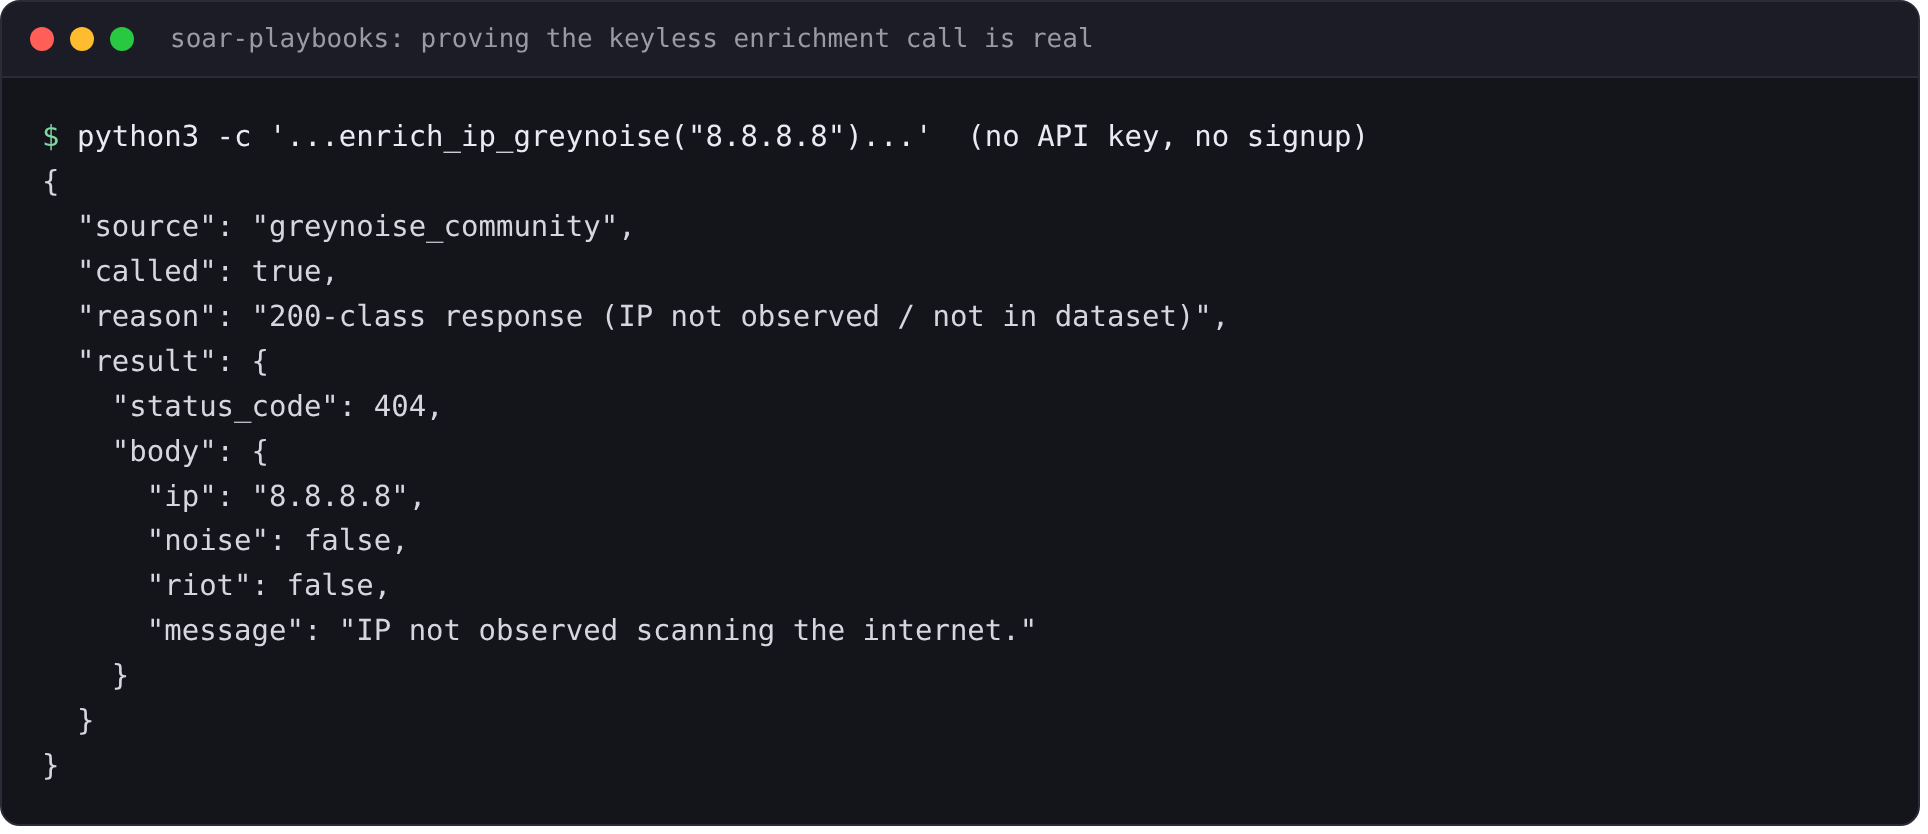
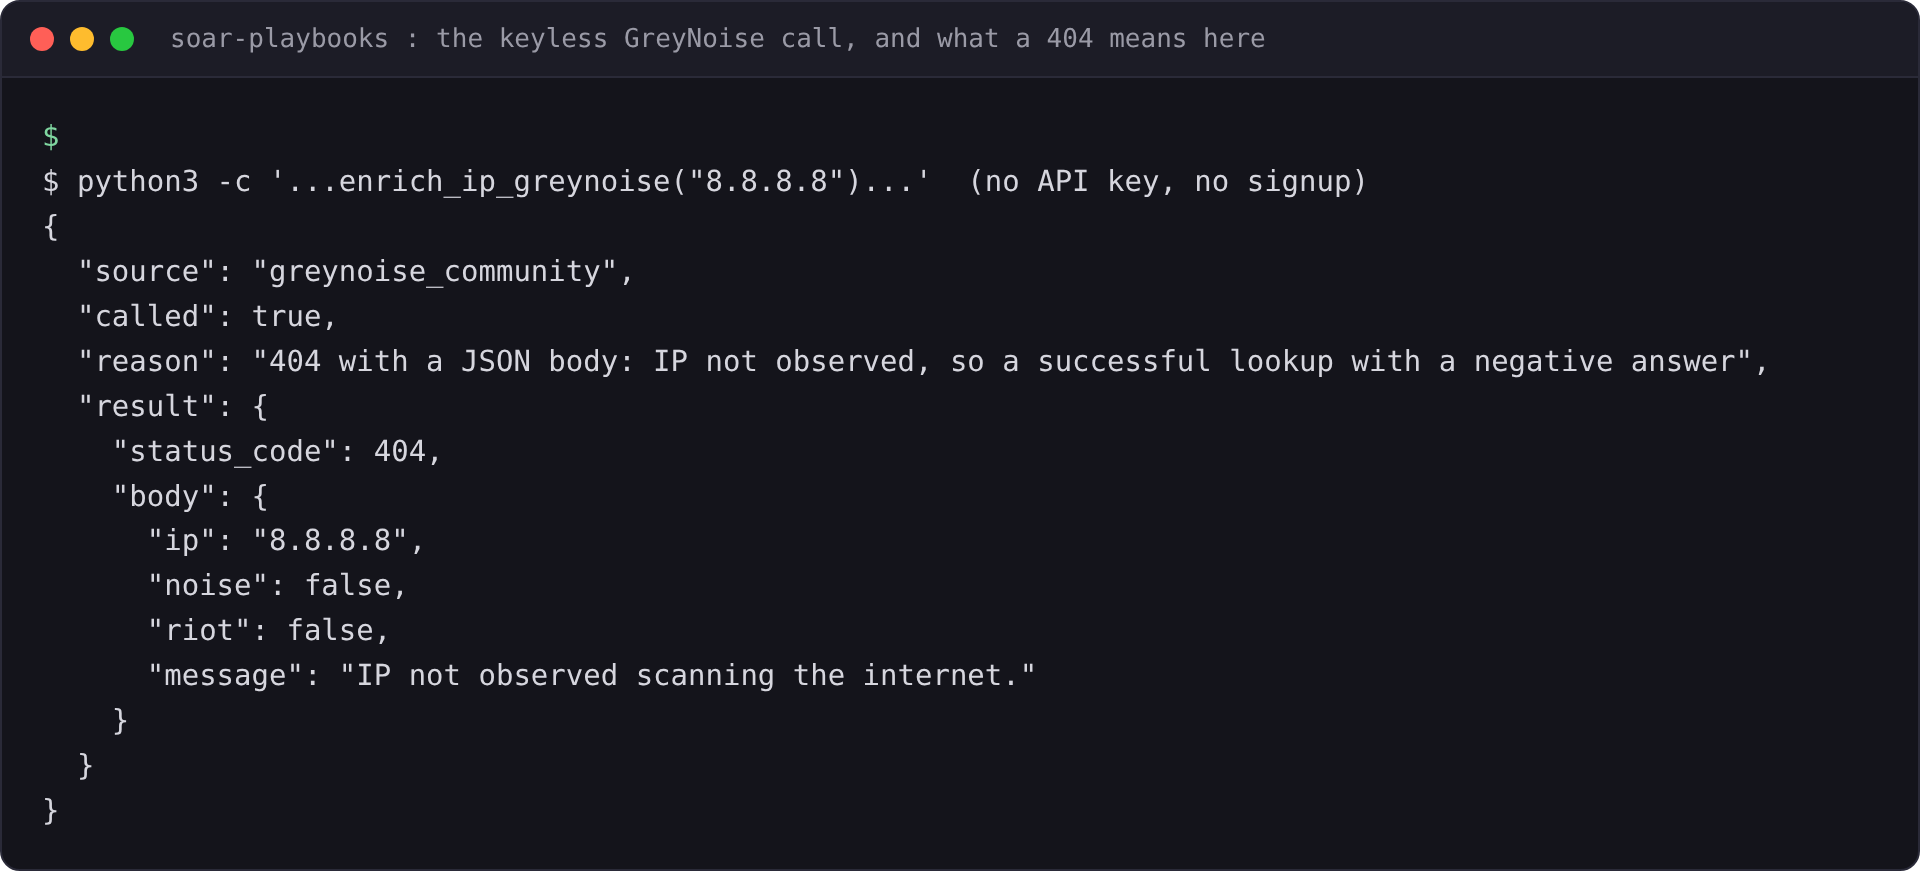
Describe the GreyNoise 404 accurately
The code labelled a 404 as a 200-class response. The screenshot showed
both on the same screen, which contradicted itself.

GreyNoise returns HTTP 404 with a structured JSON body to mean the address
is not in its dataset. That is a successful lookup with a negative answer,
which is why it counts as called. But it is a 404, and saying otherwise
was wrong.

Fixed in the source, the README, and the regenerated screenshot.
20/20 tests still pass.

diff --git a/src/enrichment.py b/src/enrichment.py
@@ -151,7 +151,11 @@ def enrich_ip_greynoise(ip: str) -> SourceCall:
         return SourceCall(
             source="greynoise_community",
             called=True,
-            reason="200-class response (IP not observed / not in dataset)",
+            # GreyNoise returns HTTP 404 with a structured JSON body to mean
+            # "this IP is not in our dataset". That is a successful lookup with
+            # a negative answer, not a failed call, so it counts as called.
+            # Do not describe it as a 200; the status code is really 404.
+            reason="404 with a JSON body: IP not observed, so a successful lookup with a negative answer",
             result={"status_code": 404, "body": resp.json() if resp.content else None},
         )
     if resp.status_code != 200:

diff --git a/README.md b/README.md
@@ -139,7 +139,7 @@ Sources, and what actually happened with each one on the real run:
 
 | Source | Needs a key? | Called live on the real run? | Why |
 |---|---|---|---|
-| **GreyNoise Community API** | No. Genuinely keyless, confirmed by a live unauthenticated call during development (`evidence/screenshots/04-greynoise-live-keyless-call.png`), a real HTTP request with no Authorization header that returned a real 200-class response body. | No, on the real 1,433-alert run. The call path is real and unit-tested, but GreyNoise only accepts IP addresses, and D1-D6 never produce an IP indicator (see above). | Recorded as skipped, with the specific reason, on every one of the 1,433 alerts: `"skipped: no IP-shaped field populated on this event"`. |
+| **GreyNoise Community API** | No. Genuinely keyless, confirmed by a live unauthenticated call during development (`evidence/screenshots/04-greynoise-live-keyless-call.png`), a real HTTP request with no Authorization header that got a real answer back. For an address GreyNoise has not seen, that answer is HTTP 404 carrying a JSON body, which is a successful lookup with a negative result rather than a failed call. | No, on the real 1,433-alert run. The call path is real and unit-tested, but GreyNoise only accepts IP addresses, and D1-D6 never produce an IP indicator (see above). | Recorded as skipped, with the specific reason, on every one of the 1,433 alerts: `"skipped: no IP-shaped field populated on this event"`. |
 | **AbuseIPDB** | Yes, free registration required per its own docs. | No. `ABUSEIPDB_API_KEY` was left unset, per this project's constraint against signing up for any service. | Recorded as skipped: `"skipped: ABUSEIPDB_API_KEY not set in environment"`, and would also be skipped for lack of an IP indicator even if a key were supplied. |
 | **VirusTotal** | Yes, free registration required per its own docs. | No. `VT_API_KEY` was left unset, same reason. | Recorded as skipped: `"skipped: VT_API_KEY not set in environment"` where a hash indicator would apply (never, for D1-D6), and `"skipped: no Hashes field populated"` otherwise. |
 | **MITRE ATT&CK technique context** | No key, but also not a live lookup. | Yes, on every alert, but this is a local, offline join against the ATT&CK Enterprise STIX bundle already on disk (`cloud-detection-coverage/data/enterprise-attack.json`, read only). It resolves a technique ID like `T1547.001` to its name and tactic. Labeled `"local ATT&CK lookup"` everywhere it appears in output, never presented as a live threat-intel call. | Adds technique context to the verdict record for readability, does not affect the malicious/benign decision. |
